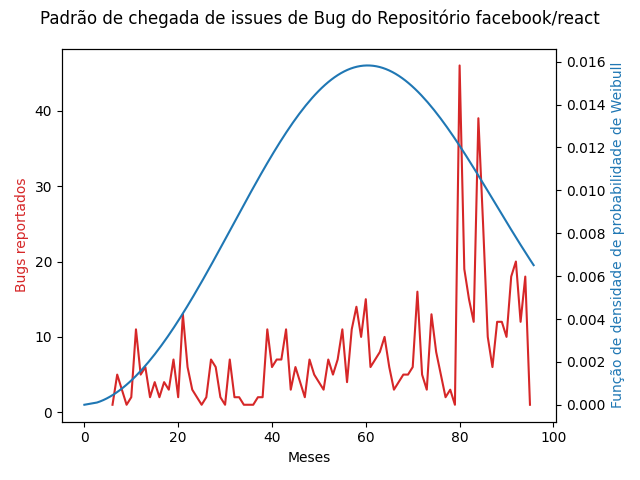
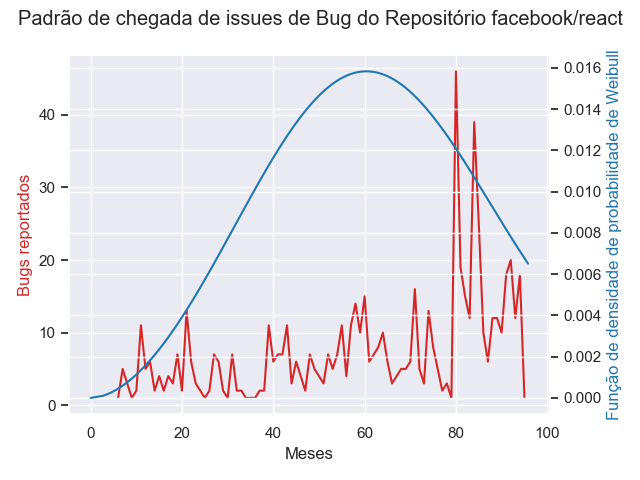
Add seaborn to graphs

diff --git a/main.py b/main.py
@@ -1,4 +1,4 @@
-SOFTWARE = 'ANGULAR'
+SOFTWARE = 'VUE'
 
 if(SOFTWARE == 'VUE'):
     DATASET_FILE = 'datasets/vue_dataset.txt'
@@ -8,7 +8,7 @@ if(SOFTWARE == 'VUE'):
         'labels': ['bug']
     }
 
-elif(SOFTWARE=='ANGULAR'):
+elif(SOFTWARE == 'ANGULAR'):
     DATASET_FILE = 'datasets/angularjs_dataset.txt'
     GRAPH_NAME = 'graph/angularjs.png'
     REPO_NAME = 'angular/angular.js'

diff --git a/graph_generator.py b/graph_generator.py
@@ -20,6 +20,7 @@ class GraphGenerator:
 
     @staticmethod
     def export_graphs(dataset_file, image_name, title):
+        sns.set_theme()
         dataset = GraphGenerator.get_dataset(dataset_file)
 
         hist = Counter()
